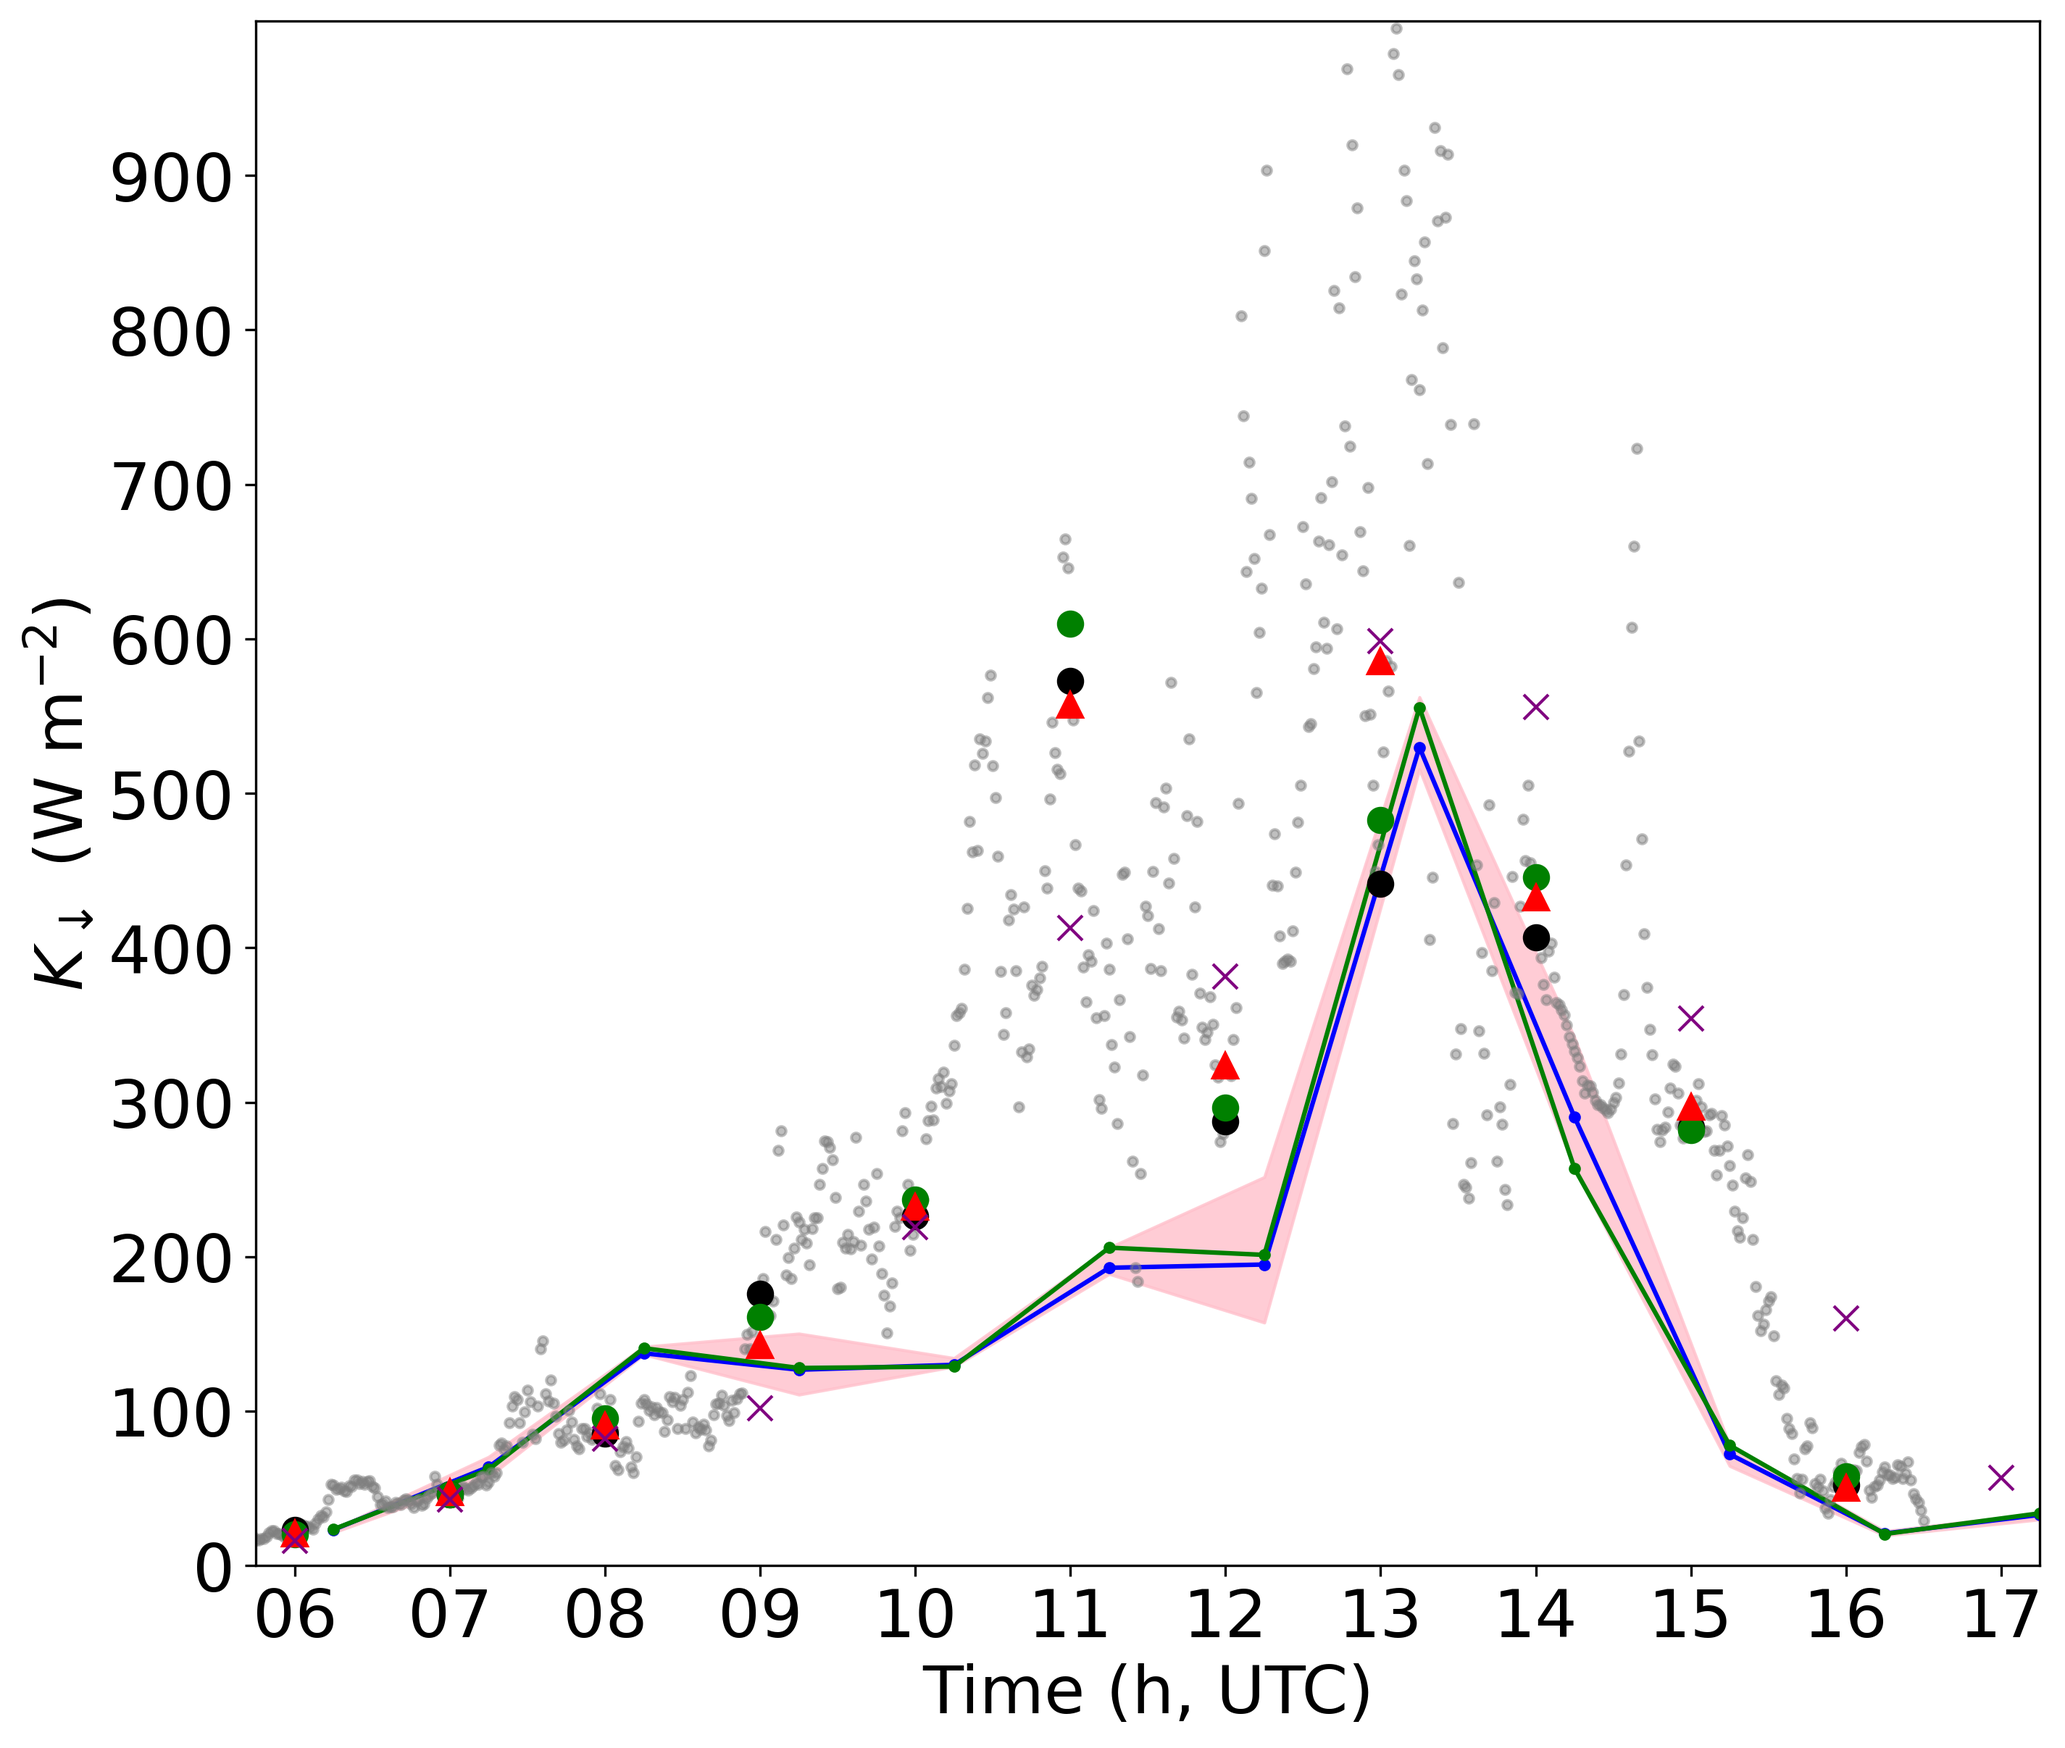
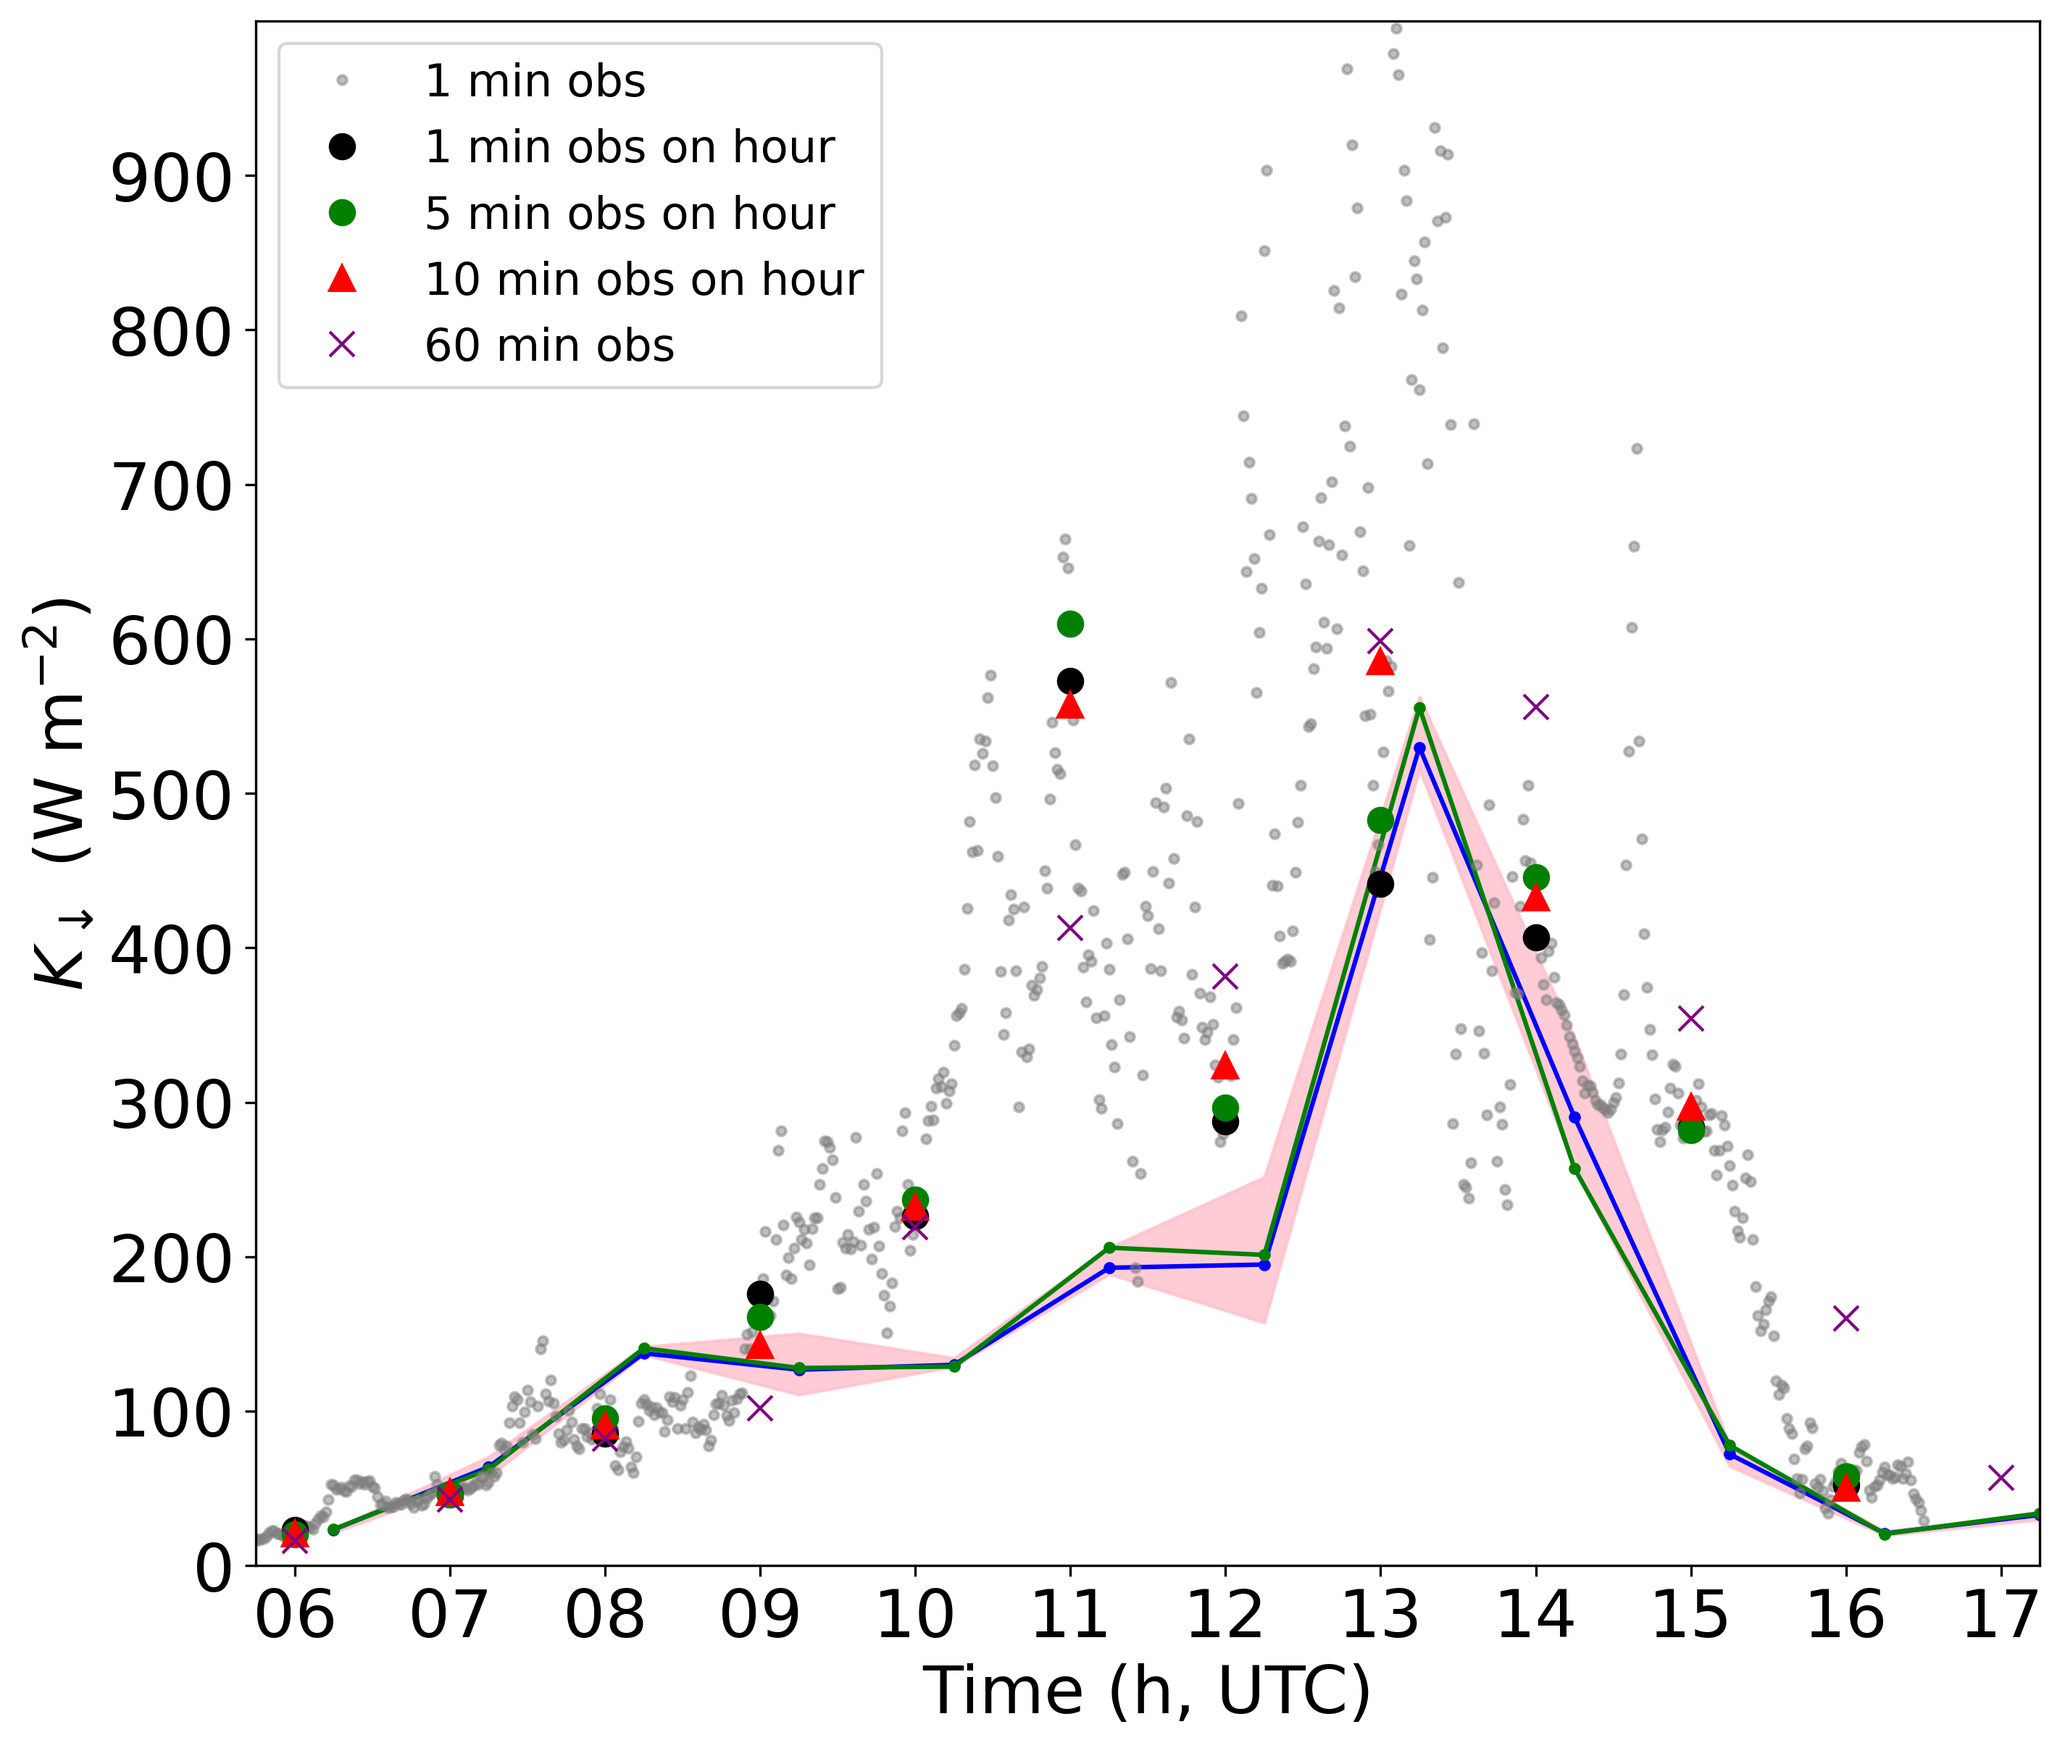
fix kdown leg

Changed region(s): [[0.1874, 0.0311, 0.4372, 0.2176], [0.1561, 0.0622, 0.1874, 0.1243], [0.1561, 0.1554, 0.1874, 0.1865]]

diff --git a/scint_plots/detailed_time_series/detailed_time_series_funs.py b/scint_plots/detailed_time_series/detailed_time_series_funs.py
@@ -132,36 +132,41 @@ def detailed_time_series(obs_df,
 
     max_grid_vals, min_grid_vals, n_grids = variation_in_grids(ukv_df, model_site_dict)
 
+
+
     ax1.fill_between(ukv_df.index, max_grid_vals, min_grid_vals, color='pink',
                      alpha=0.8, label='UKV grid-box range in SA analysis')
 
-    ax1.plot(ukv_df.index, ukv_df['WAverage'], label='Weighted UKV-flux @ surface', color='blue',
+    ax1.plot(ukv_df.index, ukv_df['WAverage'], label='UKV grid-box average with LAS-SA weighting @ surface', color='blue',
              marker='.')
 
+    if variable == 'kdown':
+        grid_box_letter = 'E'  # where KSSW is
+    if variable == 'H':
+        grid_box_letter = 'B'  # where the centre coord of the path is
+
     ax1.plot(ukv_df.index, ukv_df[13],
-             label='Centre grid-box UKV-flux @ surface', color='green',
-             marker='.')
+             label='UKV @ surface: grid-box ' + grid_box_letter, color='green', marker='.')
 
     # if I am including the BL_H grid
     try:
-        ax1.plot(ukv_df.index, ukv_df['BL_H_13'],
-                 label='Centre grid-box UKV-flux @ ' + str(BL_H_z) + ' m', color='red', marker='.')
+        ukv_level = ax1.plot(ukv_df.index, ukv_df['BL_H_13'], label='UKV @ ' + str(BL_H_z) + ' m agl: grid-box ' + grid_box_letter, color='red', marker='.')
     except KeyError:
         pass
 
-    ax1.plot(obs_df.index, obs_df[df_col], linestyle='None', marker='.', color='grey', alpha=0.5,
+    obs_all = ax1.plot(obs_df.index, obs_df[df_col], linestyle='None', marker='.', color='grey', alpha=0.5,
              label="1 min obs")
 
-    ax1.plot(hour_1min.index, hour_1min.values, linestyle='None', marker='o', color='k', markersize=8,
+    obs_1 = ax1.plot(hour_1min.index, hour_1min.values, linestyle='None', marker='o', color='k', markersize=8,
              label="1 min obs on hour")
 
-    ax1.plot(hour_5min.index, hour_5min.values, linestyle='None', marker='o', color='green', markersize=8,
+    obs_5 = ax1.plot(hour_5min.index, hour_5min.values, linestyle='None', marker='o', color='green', markersize=8,
              label="5 min obs on hour")
 
-    ax1.plot(hour_10min.index, hour_10min.values, linestyle='None', marker='^', color='red', markersize=8,
+    obs_10 = ax1.plot(hour_10min.index, hour_10min.values, linestyle='None', marker='^', color='red', markersize=8,
              label="10 min obs on hour")
 
-    ax1.plot(hour_60min.index, hour_60min.values, linestyle='None', marker='x', color='purple', markersize=8,
+    obs_60 = ax1.plot(hour_60min.index, hour_60min.values, linestyle='None', marker='x', color='purple', markersize=8,
              label="60 min obs")
 
     ax1.set_ylabel(label_string)
@@ -189,10 +194,22 @@ def detailed_time_series(obs_df,
     # add legend to plot
     # ax1.legend([handles[idx] for idx in order], [labels[idx] for idx in order], loc='center left', bbox_to_anchor=(1, 0.5))
 
-    # add legend if kdown clear day
+
+    # legend for obs on panel (a) - kdown cloudy day
+    if variable == 'kdown':
+        if obs_df.index[0].strftime('%Y%j') == '2016123':
+
+            ax1.legend([handles[idx] for idx in order][3:], [labels[idx] for idx in order][3:], fontsize=15)  # [3:] just obs handles
+
+
+
+    # legend for model kdown on panel (b) - kdown clear day
     if variable == 'kdown':
         if obs_df.index[0].strftime('%Y%j') == '2016126':
-            ax1.legend(fontsize=15, loc=(0.16, 0.05))
+
+            ax1.legend([handles[idx] for idx in order][:3], [labels[idx] for idx in order][:3], fontsize=15)  # [:3] just model handles
+
+            # ax1.legend(fontsize=15, loc=(0.16, 0.05))
 
     # add legend if H cloudy day
     if variable == 'H':

diff --git a/scint_plots/detailed_time_series/main_kdown_detailed_time_series.py b/scint_plots/detailed_time_series/main_kdown_detailed_time_series.py
@@ -9,7 +9,7 @@ from scint_plots.detailed_time_series import detailed_time_series_funs
 import numpy as np
 
 scint_path = 12
-DOY_list = [2016123, 2016126]
+DOY_list = [2016126, 2016123]
 var_list = ['kdown', 'z_0']
 time_res = '1min_sa10min'
 
